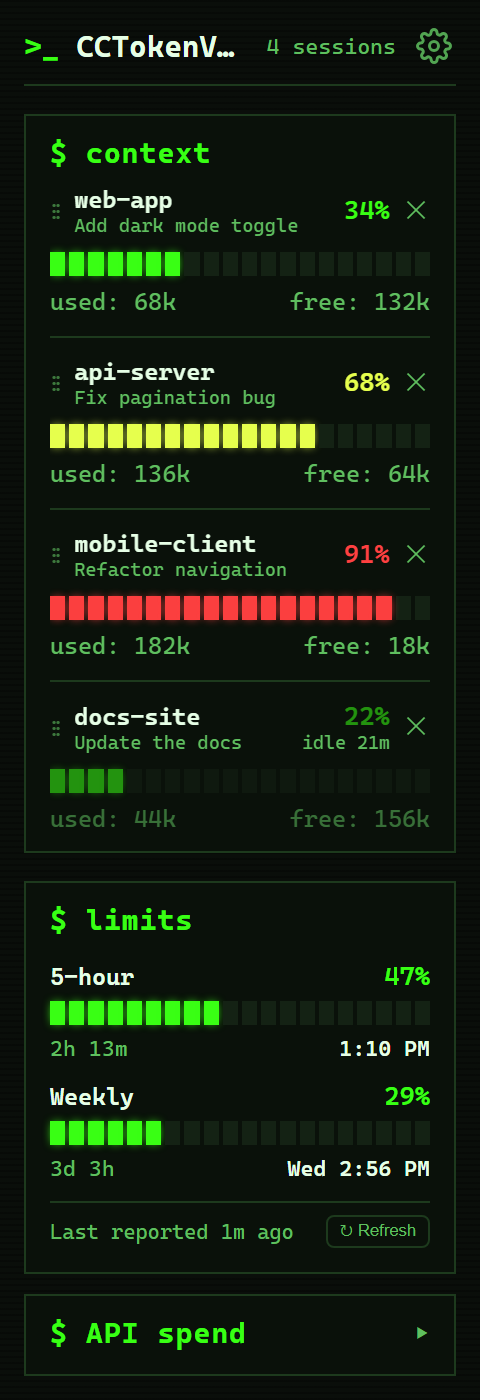
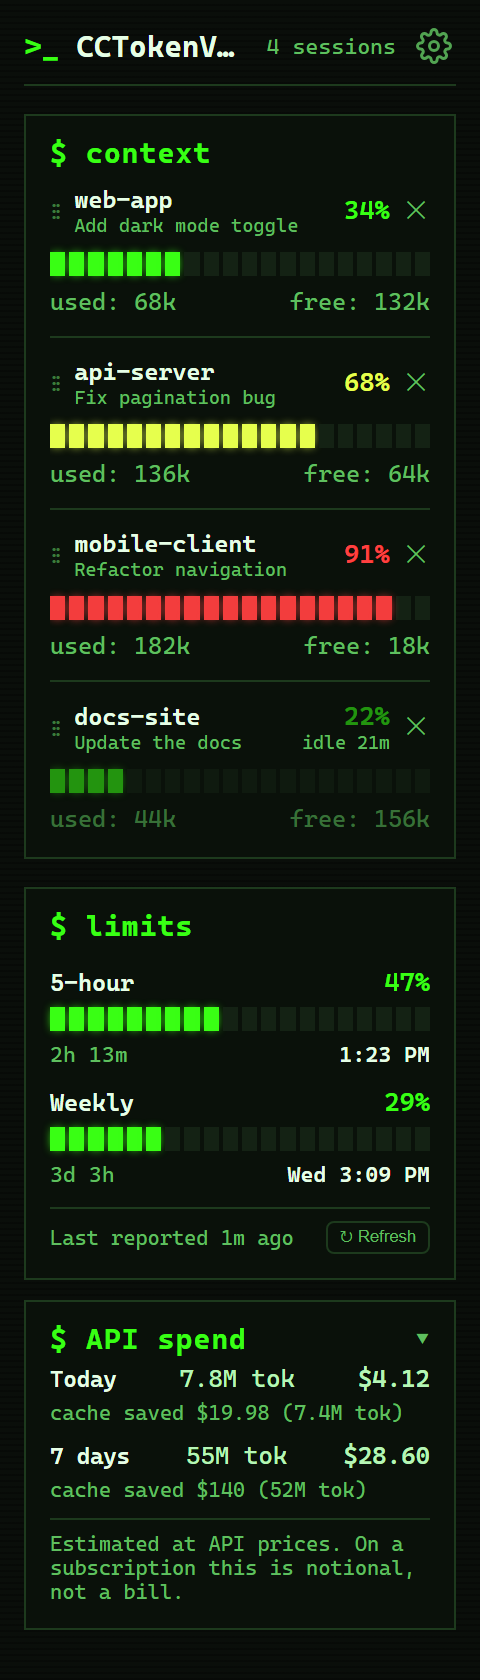
README: two screenshots, Terminal and Sweet, both with API spend open

diff --git a/scripts/screenshots.py b/scripts/screenshots.py
@@ -14,8 +14,7 @@ BROWSERS = [
 ]
 # (file, theme, spend panel open, window height)
 SHOTS = [
-    ("screenshot.png", "linux", False, 700),
-    ("screenshot-spend.png", "linux", True, 840),
+    ("screenshot.png", "linux", True, 840),
     ("screenshot-sweet.png", "sweet", True, 840),
 ]
 

diff --git a/README.md b/README.md
@@ -9,9 +9,7 @@ A lightweight desktop app that shows how much room you have left in Claude Code:
 Forked from [gosparq/claudewatch](https://github.com/gosparq/claudewatch) (MIT). Not affiliated with Anthropic.
 
 <p align="center">
-  <img src="docs/screenshot.png" alt="CCTokenViz in the Terminal theme: context per project and 5-hour and weekly limits" width="224">
-  &nbsp;&nbsp;
-  <img src="docs/screenshot-spend.png" alt="The Terminal theme with the optional API spend panel expanded: tokens, estimated cost and cache savings" width="224">
+  <img src="docs/screenshot.png" alt="CCTokenViz in the Terminal theme: context per project, 5-hour and weekly limits, and the optional API spend panel expanded" width="224">
   &nbsp;&nbsp;
   <img src="docs/screenshot-sweet.png" alt="CCTokenViz in the Sweet theme, with the API spend panel expanded" width="224">
 </p>
